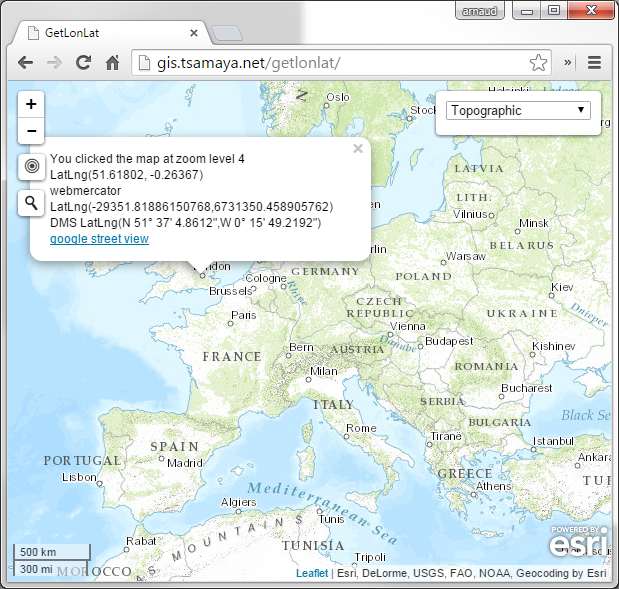
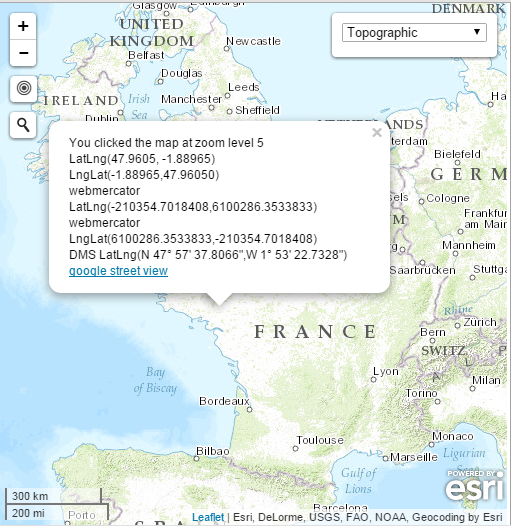
adss LngLat

diff --git a/src/js/getlonlat.js b/src/js/getlonlat.js
@@ -42,8 +42,11 @@ function onMapClick(evt) {
   var zoomLevel = map.getZoom();
   popup.setLatLng(evt.latlng)
     .setContent('You clicked the map at zoom level ' + zoomLevel + '<br/>' + evt.latlng.toString() + '<br/>' +
+      'LngLat('+lon.toFixed(5)+','+lat.toFixed(5)+')<br/>' +
       'webmercator LatLng(' + webmercator.x + ',' + webmercator.y + ') <br/>' +
-      'DMS LatLng(' + dms.latitude + ',' + dms.longitude + ') <br/><a href=\'http://maps.googleapis.com/maps/api/streetview?size=600x380&location='+lat+','+lon+'\' target=\'_blank\'>google street view</a>'
+      'webmercator LngLat(' + webmercator.y + ',' + webmercator.x + ') <br/>' +
+      'DMS LatLng(' + dms.latitude + ',' + dms.longitude + ') <br/>'+
+      '<a href=\'http://maps.googleapis.com/maps/api/streetview?size=600x380&location='+lat+','+lon+'\' target=\'_blank\'>google street view</a>'
     ).openOn(map);
 }
 
@@ -74,8 +77,8 @@ function geographicToWebMercator(x_lon, y_lat) {
     console.error('Invalid coordinate values for conversion');
   }
   return {
-    'x': x_mercator,
-    'y': y_mercator
+    'x': x_mercator.toFixed(7),
+    'y': y_mercator.toFixed(7)
   };
 }
 

diff --git a/README.md b/README.md
@@ -1,10 +1,26 @@
-GetLonLat
-================
+#GetLonLat
+
 A web map to help find Longitute and Latitude.
+Pop up content shows the coordinates as Lon,Lat and Lat,Lon for easily copy/paste for your favorite format.
 
+![App Screenshot](https://raw.githubusercontent.com/tsamaya/getlonlat/master/getlonlat.png)
 
-lonlat latlon tables from http://www.macwright.org/lonlat/
+## Issues
+Find a bug or want to request a new feature?  Please let us know by submitting an [issue](https://github.com/tsamaya/getlonlat/issues).
 
+## Contributing
+Anyone and everyone is welcome to contribute.
+
+## Resources
+* [leaflet](http://leafletjs.com/)
+* [esri leaflet](http://esri.github.io/esri-leaflet)
+* twitter [@arferrand](http://twitter.com/arferrand)
+
+## Credit
+This application was inspired by [Get Lat+Lon](http://teczno.com/squares).
+
+### lonlat latlon
+These tables are coming from http://www.macwright.org/lonlat/
 
 **formats**
 
@@ -18,47 +34,25 @@ lonlat latlon tables from http://www.macwright.org/lonlat/
 
  **javascript apis**
 
-| lon, lat  | lat, lon|
-|-----------|---------|
-| OpenLayers | Leaflet |
-| d3 | Google Maps API |
-|ArcGIS API for JavaScript| |
+| lon, lat   | lat, lon        |
+|------------|-----------------|
+| OpenLayers | Leaflet         |
+| d3         | Google Maps API |
+|ArcGIS API for JavaScript|    |
 
 **mobile apis**
 
 | lon, lat  | lat, lon|
 |-----------|---------|
-|  | Google Maps iOS/Android |
-|  | Apple MapKit |
-
+|           | Google Maps iOS/Android |
+|           | Apple MapKit |
 
 **misc**
 
 | lon, lat  | lat, lon|
 |-----------|---------|
-|  | OSRM |
+|           | OSRM    |
 
-
-
-
-
-
-
-
-## Issues
-Find a bug or want to request a new feature?  Please let us know by submitting an issue.
-
-## Contributing
-Anyone and everyone is welcome to contribute.
-
-## Resources
-* [leaflet](http://leafletjs.com/)
-* [esri leaflet](http://esri.github.io/esri-leaflet)
-* [API ArcGIS for Javascript](http://js.arcgis.com/)
-* twitter [@arferrand](http://twitter.com/arferrand)
-
-## Credit
-This application was inspired by [Get Lat+Lon](http://teczno.com/squares).
 
 ## Licensing
 Licensed under the Apache License, Version 2.0 (the "License");
